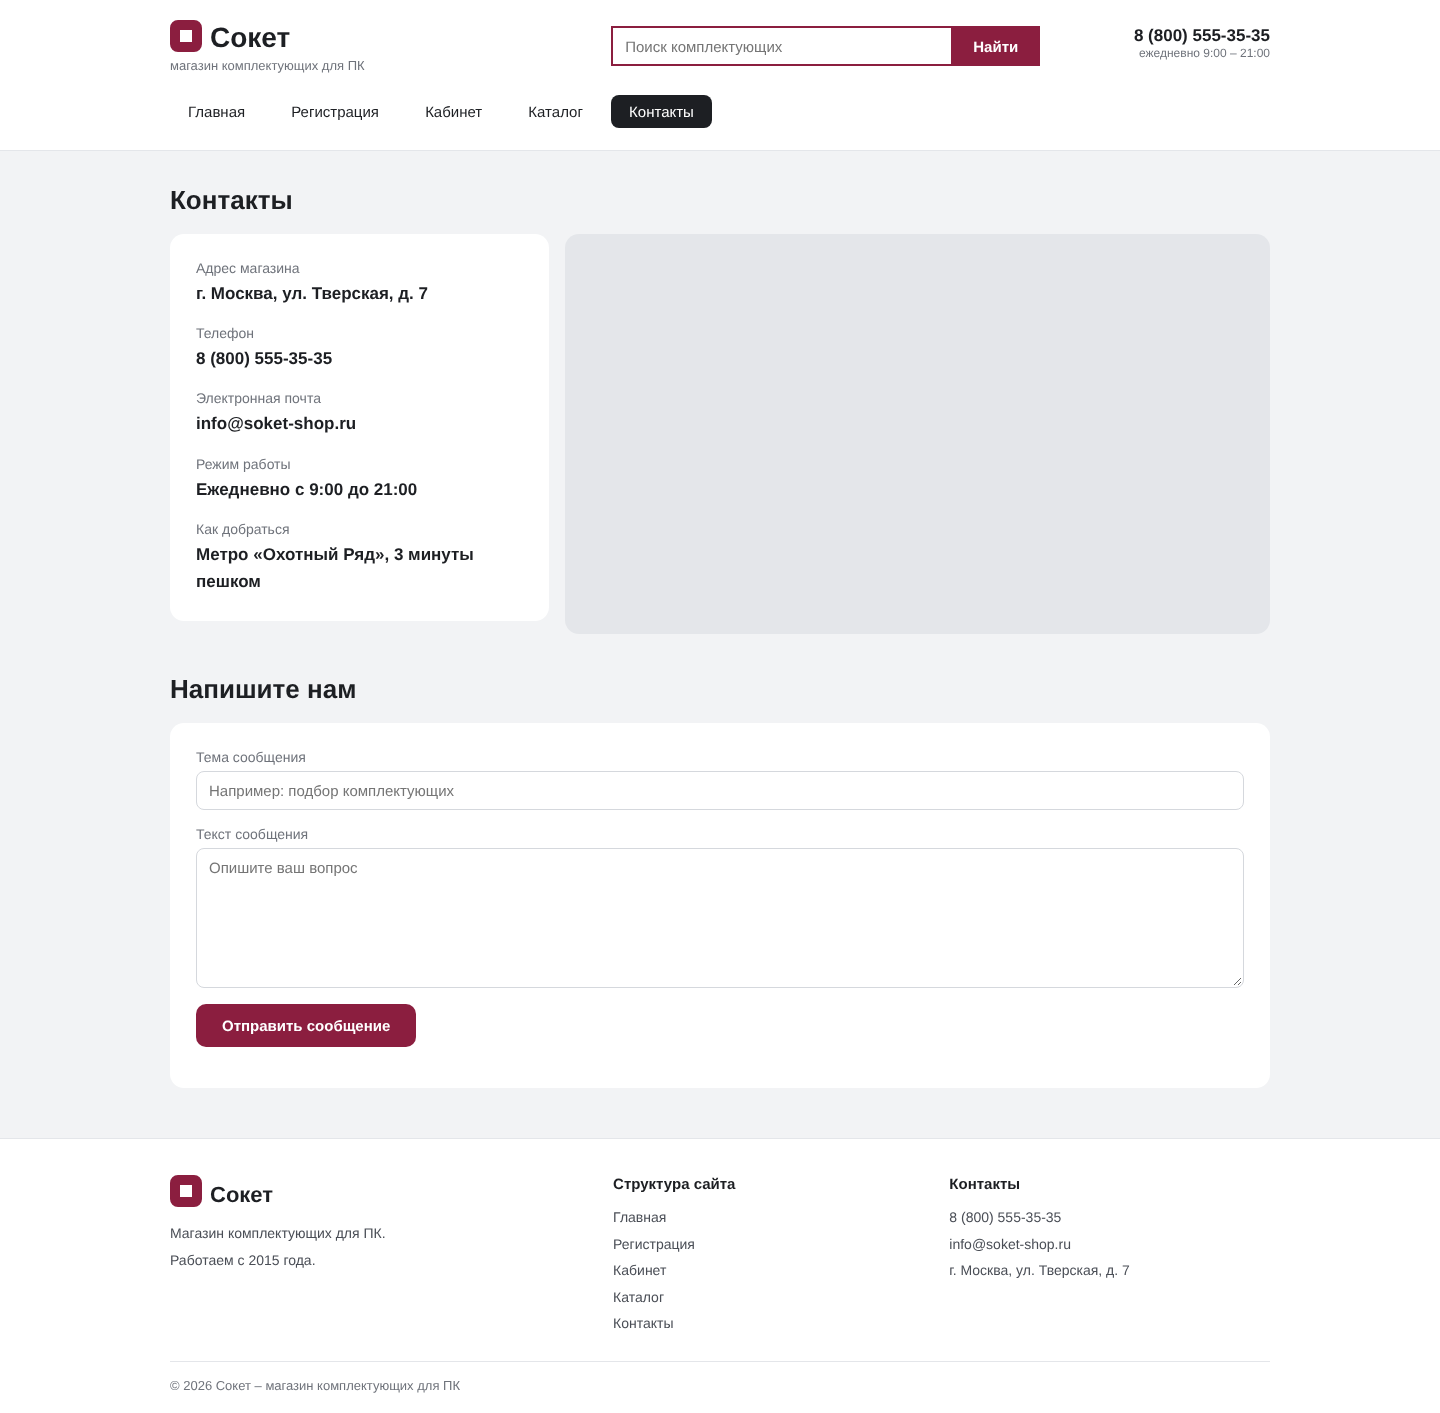
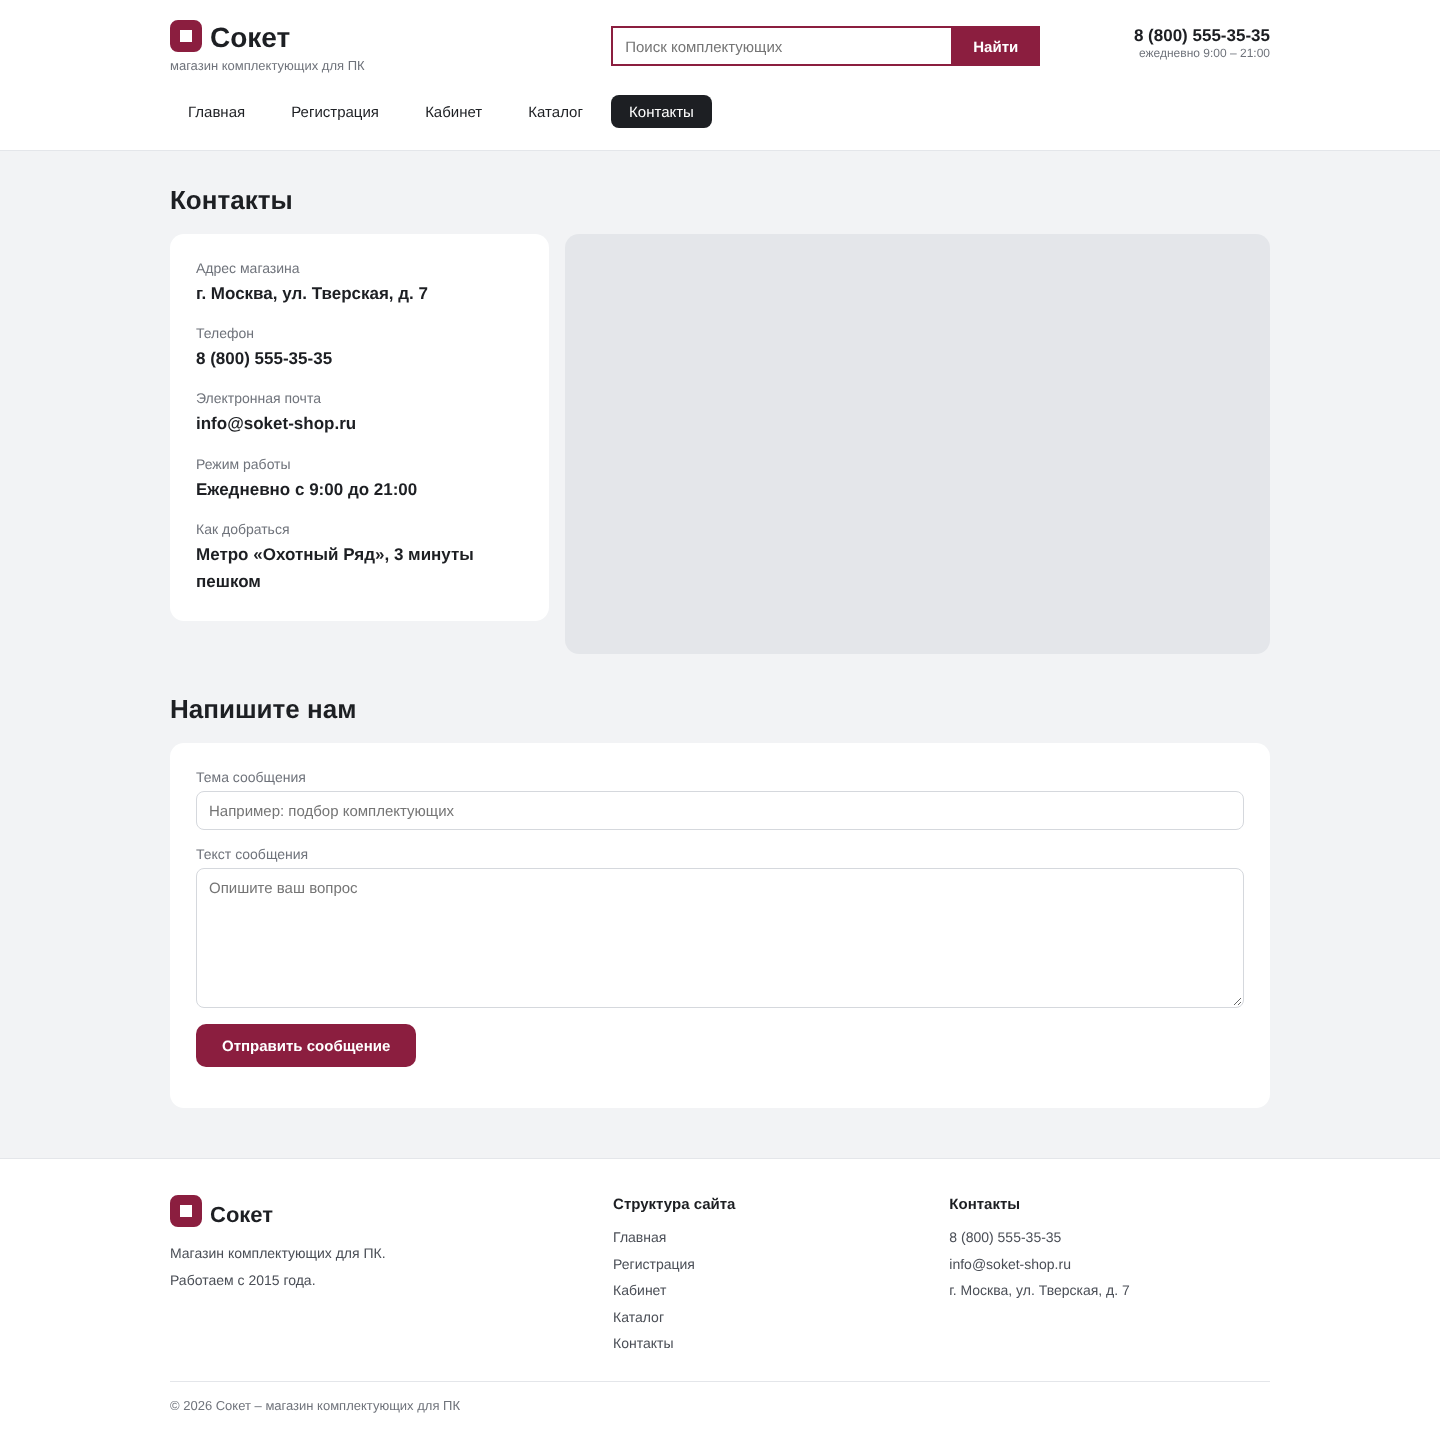
ЛР10: стили контактов внутри contact.php, размер карты атрибутами iframe
Claude-Session: https://claude.ai/code/session_01FPpNhkgtReaRARf6iDnnhE

diff --git a/lab10/contact.php b/lab10/contact.php
@@ -1,5 +1,16 @@
 <?php include("head.php");?>
 <tr><td>
+<style>
+/* Стили страницы контактов */
+.kontakty h3 { margin: 0 0 4px 0; font-size: 14px; font-weight: normal; color: #6f737b; }
+.kontakty p { margin: 0 0 18px 0; font-size: 17px; font-weight: bold; color: #1d1f23; }
+.karta { padding: 0; overflow: hidden; background-color: #e4e6ea; }
+.karta iframe { display: block; width: 100%; height: 420px; border: 0; }
+.forma label { display: block; margin: 0 0 6px 0; font-size: 14px; color: #6f737b; }
+.forma .pole_formy { display: block; width: 100%; margin: 0 0 16px 0; padding: 10px 12px; border: 1px solid #d5d8dd; border-radius: 8px; font-family: Arial, sans-serif; font-size: 15px; box-sizing: border-box; }
+.forma textarea.pole_formy { height: 140px; resize: vertical; }
+.forma .knopka { display: inline-block; border: none; font-size: 15px; cursor: pointer; }
+</style>
 <div class="soderzhanie">
 <div class="wrap">
 
@@ -24,7 +35,7 @@
 		</td>
 		<td class="posl" style="width:65%">
 			<div class="blok karta">
-				<iframe src="https://yandex.ru/map-widget/v1/?ll=37.610818%2C55.757718&z=16&pt=37.610818%2C55.757718%2Cpm2rdm" allowfullscreen="true"></iframe>
+				<iframe width="100%" height="420" frameborder="0" src="https://yandex.ru/map-widget/v1/?ll=37.610818%2C55.757718&z=16&pt=37.610818%2C55.757718%2Cpm2rdm" allowfullscreen="true"></iframe>
 			</div>
 		</td>
 	</tr>

diff --git a/lab10/head.php b/lab10/head.php
@@ -52,16 +52,6 @@ h1 { margin: 40px 0 18px 0; font-size: 26px; }
 .podval a:hover { color: #8b1e3f; }
 .kopirait { margin-top: 24px; padding-top: 16px; border-top: 1px solid #e4e6ea; font-size: 13px; color: #6f737b; }
 
-/* Страница контактов */
-.kontakty h3 { margin: 0 0 4px 0; font-size: 14px; font-weight: normal; color: #6f737b; }
-.kontakty p { margin: 0 0 18px 0; font-size: 17px; font-weight: bold; color: #1d1f23; }
-.karta { padding: 0; overflow: hidden; background-color: #e4e6ea; }
-.karta iframe { display: block; width: 100%; height: 400px; border: 0; }
-.forma label { display: block; margin: 0 0 6px 0; font-size: 14px; color: #6f737b; }
-.forma .pole_formy { width: 100%; margin: 0 0 16px 0; padding: 10px 12px; border: 1px solid #d5d8dd; border-radius: 8px; font-family: Arial, sans-serif; font-size: 15px; box-sizing: border-box; }
-.forma textarea.pole_formy { height: 140px; resize: vertical; }
-.forma .knopka { border: none; font-size: 15px; cursor: pointer; }
-
 /* Телефон */
 @media (max-width: 700px) {
 	.setka, .setka tbody, .setka tr { display: block; width: 100%; }
